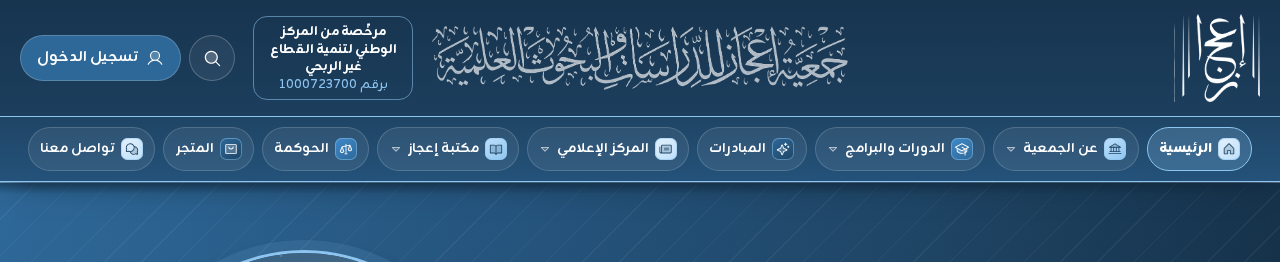
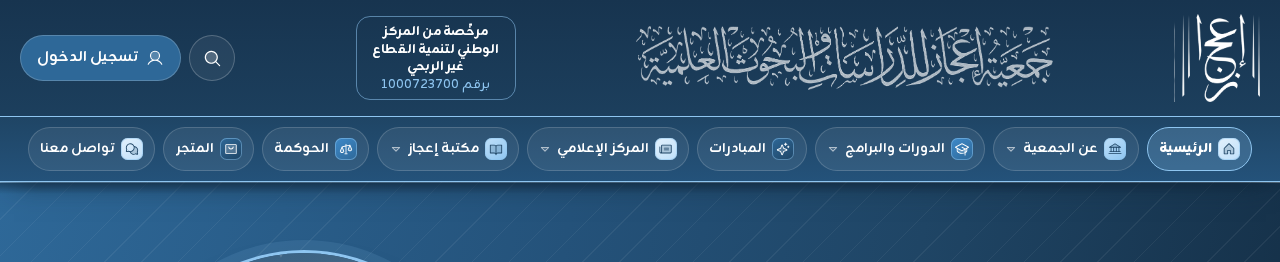
fix(header): space the four first-row items with three equal gaps
The supervisor amended the criterion: from 1280px the logo, the
calligraphy, the licence box and the search and login group sit in a
flex row with justify-content: space-between, so the three gaps are
equal. The licence wrapper uses display: contents and every item keeps
its size. Below 1280px and on the phone nothing changes.

Changed region(s): [[0.1875, 0.0611, 0.8438, 0.3359], [0.3125, 0.3664, 0.4062, 0.3969], [0.2188, 0.3664, 0.2812, 0.3969]]

diff --git a/resources/css/concept.css b/resources/css/concept.css
@@ -970,16 +970,23 @@ html {
     }
 }
 
-/* من 1280: مربع الترخيص في منتصف الفراغ بين المخطوطة والبحث والدخول (طلب صفوان، 3 نوفمبر 2026:
-   docs/decisions/2026-11-03-header-calligraphy-center.md). الهامشان الآليان يقسمان الفراغ نصفين، والفاصل بين المربع والبحث
-   بقدر فاصل الأعمدة (0.75rem) فيتساوى الجانبان. ودونه يبقى المربع بجانب المخطوطة، فلا تراكب */
+/* من 1280: الصف الأول أربعة عناصر بفراغات ثلاثة متساوية (طلب صفوان وتعديل المشرف، 3 نوفمبر 2026:
+   docs/decisions/2026-11-03-header-calligraphy-center.md): الرمز، ثم المخطوطة، ثم مربع الترخيص، ثم البحث والدخول.
+   صف مرن بتوزيع space-between، وغلاف مربع الترخيص والأزرار (.header-end) يذوب فيه (display: contents) فيصير عنصريه.
+   والمقاسات كما هي، ولا يصغر عنصر (flex: none). ودون 1280 الشبكة السابقة والمربع بجانب المخطوطة، فلا تراكب */
 @media (min-width: 80rem) {
-    .header-top .header-end {
-        gap: 0.75rem;
+    .header-top {
+        display: flex;
+        justify-content: space-between;
     }
 
-    .header-top .header-licence {
-        margin-inline: auto;
+    .header-top > *,
+    .header-top .header-actions {
+        flex: none;
+    }
+
+    .header-top .header-end {
+        display: contents;
     }
 
     .header-top .header-actions {
@@ -997,7 +1004,7 @@ html {
     }
 }
 
-/* مربع الترخيص: بخلفية الشريط نفسها وحد رفيع، سطوره في منتصفه أفقياً وعمودياً، بجانب المخطوطة بفاصل صغير (عمود الشبكة) ومن 1280 في منتصف الفراغ إلى البحث،
+/* مربع الترخيص: بخلفية الشريط نفسها وحد رفيع، سطوره في منتصفه أفقياً وعمودياً، بجانب المخطوطة بفاصل صغير (عمود الشبكة) دون 1280، ومن 1280 بفراغين متساويين على جانبيه،
    والرقم كاملاً بلا التفاف ولا قص (رقم الترخيص من نص التذييل — HomeContent) */
 .header-licence {
     flex: none;

diff --git a/resources/views/partials/header.blade.php b/resources/views/partials/header.blade.php
@@ -2,7 +2,7 @@
     رأس الموقع صفّان، وكله ثابت عند التمرير (sticky top:0) بالارتفاع والمقاسات نفسها، ومنفصل عن البطل بتدرج أغمق وحد سفلي #8EC5F0
     وظل (أمر التصور النهائي، النسخة 63 — R2 وR3 وG6، وترتيب صفوان في 2 نوفمبر 2026: docs/decisions/2026-11-02-header-final.md):
     - الصف الأول ثلاثة أعمدة: رمز الشعار في أقصى البداية، والمخطوطة في منتصف الشريط تماماً، ثم بجانبها مربع الترخيص بسطريه (من
-      «محتوى الرئيسية») في منتصف الفراغ بينها وبين البحث من 1280 (وبفاصل صغير دونه: 2026-11-03-header-calligraphy-center.md)، ثم البحث و«تسجيل الدخول» (أو «حسابي») في أقصى النهاية. ولا سطر إشراف.
+      «محتوى الرئيسية») بفاصل صغير، ومن 1280 العناصر الأربعة بفراغات ثلاثة متساوية بدل توسيط المخطوطة (2026-11-03-header-calligraphy-center.md)، ثم البحث و«تسجيل الدخول» (أو «حسابي») في أقصى النهاية. ولا سطر إشراف.
     - الصف الثاني: أفتح قليلاً وبينهما فاصل #8EC5F0، فيه عناصر القائمة كبسولات بأيقونة صغيرة بجانب الكلمة (القائمة «ج»)،
       والنشط بحد #8EC5F0 وخلفية أفتح. والقائمة تُدار من اللوحة، وعناصرها السبعة من MainMenuSevenSeeder.
     - اللوحي: الترتيب نفسه بلا مربع الترخيص وبزر ☰ في أقصى النهاية. والجوال: الرمز والمخطوطة متجاوران في البداية وزر ☰ في النهاية.
@@ -15,7 +15,7 @@
 @endphp
 
 <header data-site-header class="site-header sticky top-0 z-40 text-white">
-    {{-- الصف الأول بعرض الشاشة كله بهامش صغير متساوٍ: الأوسط المخطوطة، والطرفان بعرض واحد فتبقى في منتصف الشاشة (concept.css — .header-top) --}}
+    {{-- الصف الأول بعرض الشاشة كله بهامش صغير متساوٍ: الأوسط المخطوطة، والطرفان بعرض واحد فتبقى في منتصف الشاشة دون 1280، ومن 1280 أربعة عناصر بفراغات متساوية (concept.css — .header-top) --}}
     <div class="header-top">
         {{-- الاسم المقروء في المخطوطة، فرابط الرمز خارج ترتيب لوحة المفاتيح وقارئ الشاشة: رابطان إلى الرئيسية لا يتكرران --}}
         <a href="{{ route('home') }}" wire:navigate class="header-mark" tabindex="-1" aria-hidden="true" aria-label="{{ __('site.name') }}">

diff --git a/docs/decisions/2026-11-03-header-calligraphy-center.md b/docs/decisions/2026-11-03-header-calligraphy-center.md
@@ -1,12 +1,14 @@
-# توازن الصف الأول من الرأس: المخطوطة في الوسط ومربع الترخيص في منتصف الفراغ
+# توازن الصف الأول من الرأس: أربعة عناصر بفراغات ثلاثة متساوية
 
-التاريخ: 3 نوفمبر 2026. الفرع: `fix/header-calligraphy-center`.
+التاريخ: 3 نوفمبر 2026. الفرع: `fix/header-calligraphy-center` (طلب الدمج 149).
 
 - **الطلب (صفوان):** «وازن المخطوطة ورقم الترخيص؛ لازم يرى الناظر أنها في الوسط وأن كل شيء متناسق».
-- **السياق:** المخطوطة كانت في منتصف الرأس، ومربع الترخيص ملاصق لها بفاصل 12 بكسل، والفراغ كله بينه وبين البحث (49 بكسل على 1440، و276 على 1920). فبدت المخطوطة والمربع كتلة مائلة إلى جهة الشعار.
-- **القرار:** من 1280 بكسل (`80rem`):
-  - المخطوطة في منتصف عرض الرأس كما كانت، والرمز في أقصى اليمين، والبحث والدخول في أقصى اليسار كما كانوا.
-  - مربع الترخيص في منتصف الفراغ بين المخطوطة والبحث: هامشان آليان (`margin-inline: auto`) يقسمان الفراغ نصفين، والفاصل بين المربع والبحث بقدر فاصل أعمدة الشبكة (0.75rem)، فيتساوى الجانبان.
-  - لا يتغير مقاس المخطوطة ولا الرمز.
-- **دون 1280:** الترتيب السابق (المربع بجانب المخطوطة)، لأن الفراغ ضيق، وعدم التراكب أولاً. والجوال واللوحي كما كانا.
-- **التحقق:** `tests/browser/header-center.spec.mjs` على 1280 و1440 و1920 (انحراف مركز المخطوطة عن منتصف الرأس 8 بكسل فأقل، والفراغان حول المربع بفرق 8 فأقل، ومحاذاته العمودية)، و1263، والجوال على 390 مقارناً بمواضعه قبل التغيير (`docs/design/screenshots/header-center/390-before.json`).
+- **السياق:** كانت المخطوطة في منتصف الرأس بشبكة ثلاثية الأعمدة، ومربع الترخيص ملاصق لها (12 بكسل). فالفراغ بين الرمز والمخطوطة نحو 350 بكسل على 1440، وفي الجهة الأخرى 12 ثم 49. فبدت المخطوطة والمربع كتلة مائلة إلى جهة البحث.
+- **المحاولة الأولى (مرفوضة):** إبقاء المخطوطة في منتصف الرأس، ونقل المربع وحده إلى منتصف الفراغ بينها وبين البحث (30.7 على كل جانب على 1440). رأى المشرف أن لقطتي «قبل» و«بعد» متطابقتان تقريباً، لأن الفراغ الكبير جهة الرمز بقي 350 مقابل 30.
+- **القرار (معيار المشرف المعدّل):** من 1280 بكسل (`80rem`) الفراغات الثلاثة في الصف الأول متساوية: الرمز إلى المخطوطة، والمخطوطة إلى مربع الترخيص، والمربع إلى البحث والدخول.
+  - الصف الأول صف مرن (`display: flex`) بتوزيع `justify-content: space-between`.
+  - غلاف المربع والأزرار (`.header-end`) يذوب في الصف (`display: contents`)، فيصير المربع والأزرار عنصرين مستقلين.
+  - كل عنصر `flex: none`، فلا يتغير مقاس المخطوطة ولا الرمز ولا المربع ولا الأزرار. والرمز في أقصى اليمين، والدخول في أقصى اليسار، كما كانا.
+  - المخطوطة لم تعد في منتصف الشاشة تماماً، بل تنزاح نحو الرمز (205 بكسل على 1280، و213 على 1440، و282 على 1920). والتوازن بتساوي الفراغات، لا بتوسيط المخطوطة.
+- **دون 1280:** الشبكة السابقة: المخطوطة في المنتصف والمربع بجانبها. فالفراغ ضيق، وعدم التراكب أولاً. والجوال واللوحي كما كانا.
+- **التحقق:** `tests/browser/header-center.spec.mjs` على 1280 و1440 و1920: الفراغات الثلاثة بفرق 8 بكسل فأقل، والمحاذاة العمودية للمربع مع المخطوطة، والطرفان، ولا تمرير أفقي. وعلى 1263 بلا تراكب. والجوال على 390 مقارناً بمواضعه قبل التغيير (`docs/design/screenshots/header-center/390-before.json`). وشرط التوسيط في `header-final.spec.mjs` صار لما بين 800 و1280.
